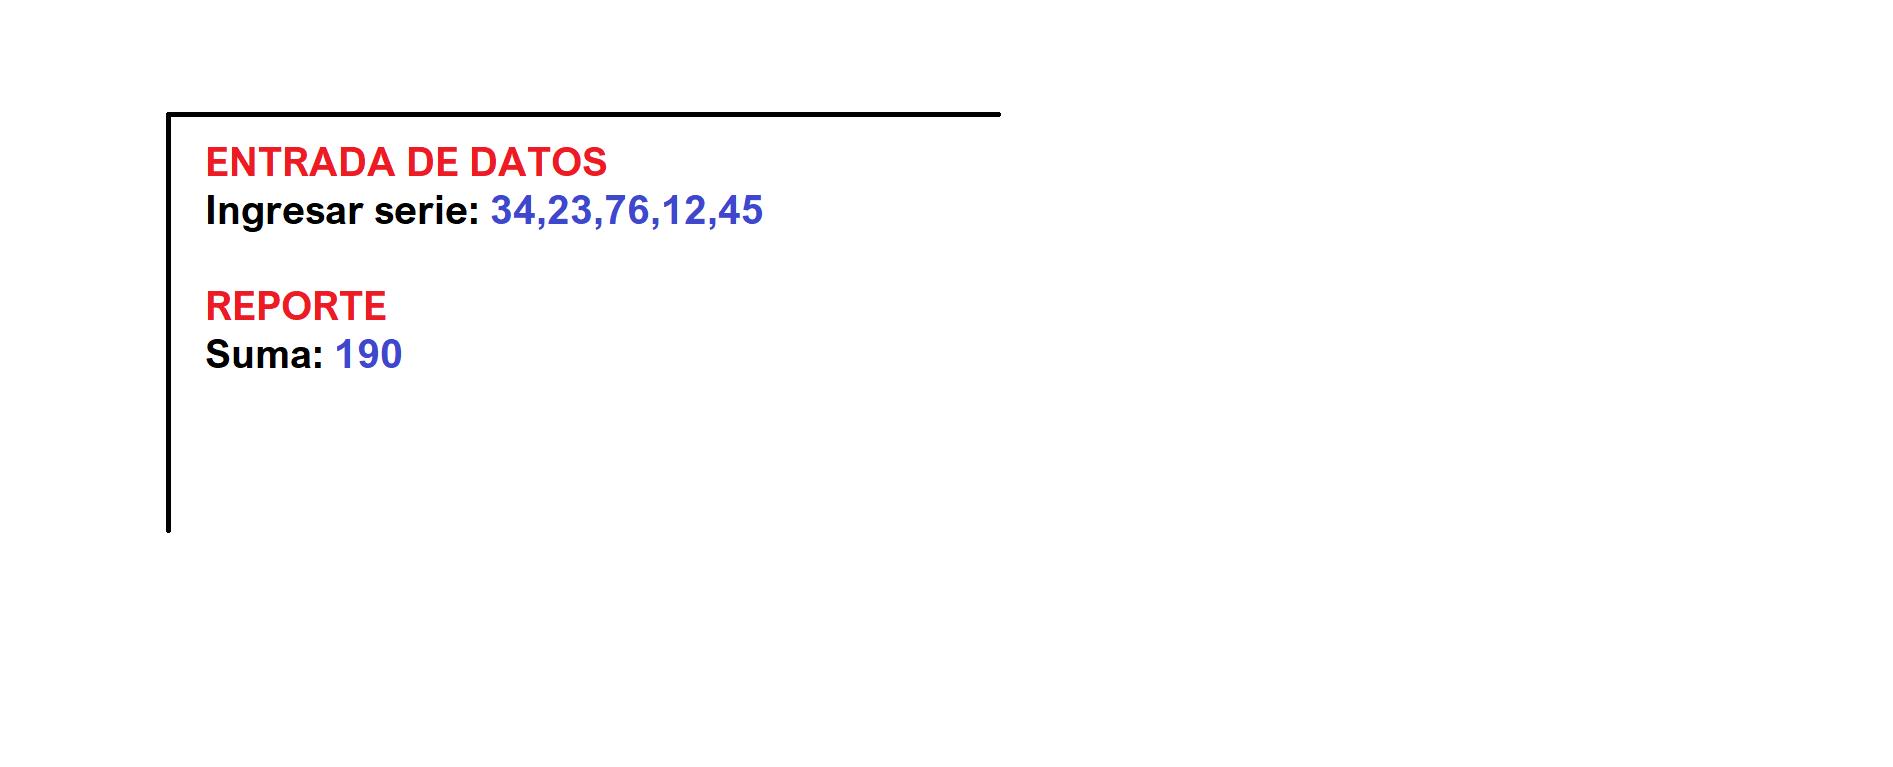
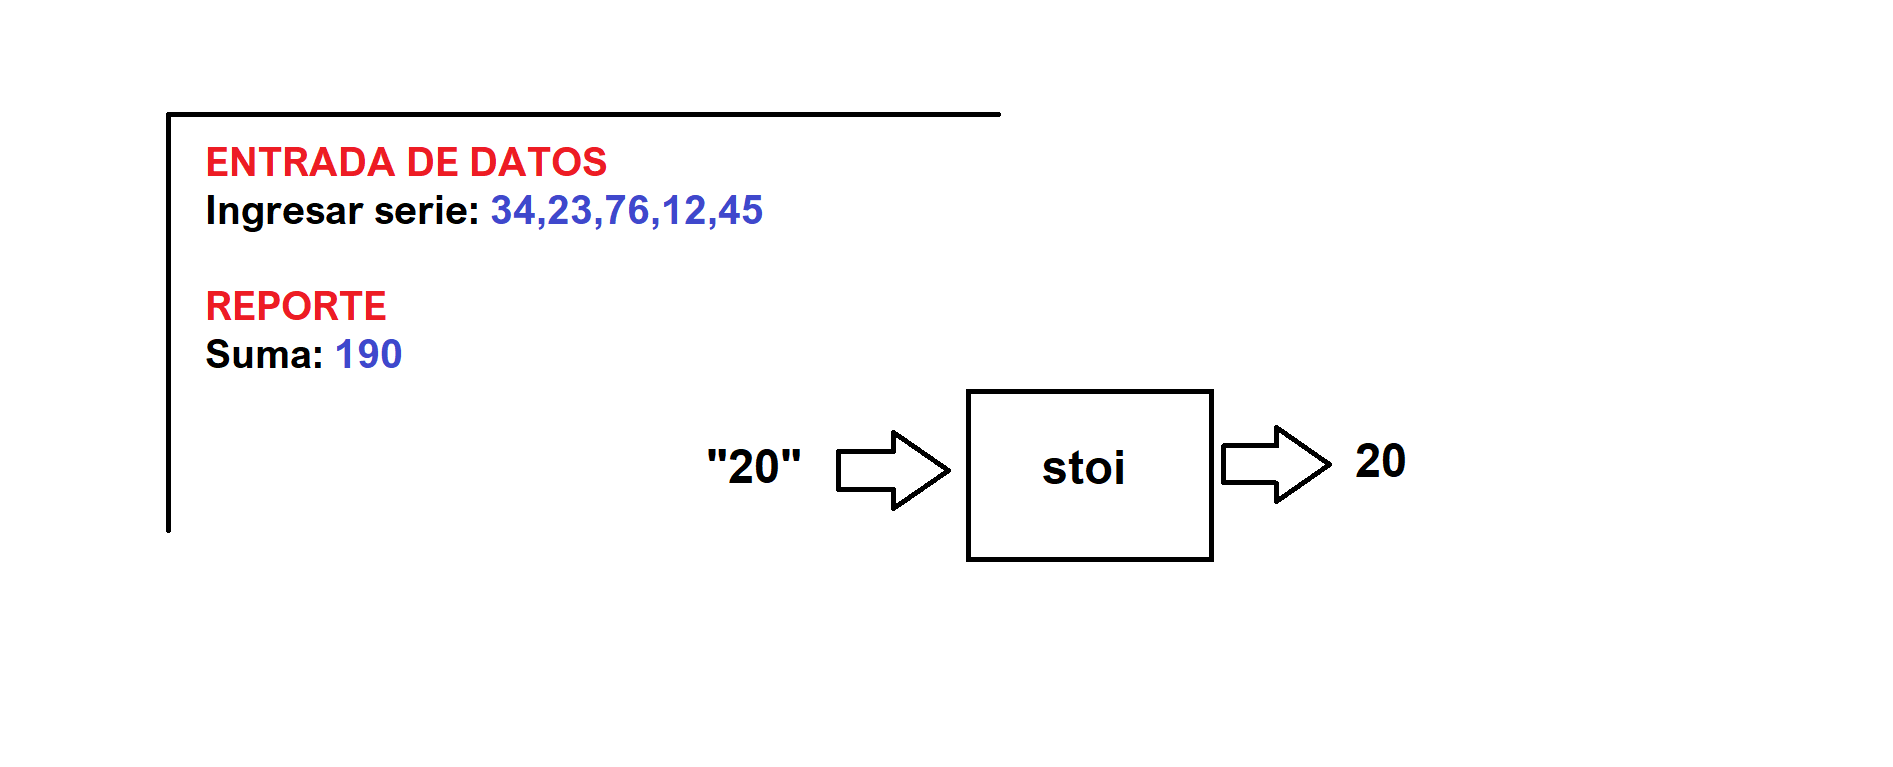
Semana 06

diff --git a/Semana06/Reto-JESHUA.cpp b/Semana06/Reto-JESHUA.cpp
@@ -1,0 +1,31 @@
+#include <iostream>
+#include <math.h>
+
+using namespace std;
+ 
+int main() {
+	
+	// Variables
+    int num, suma, i;
+    
+    // Entrada de datos
+    cout << "\t Ingrese numeros enteros\n";
+    cout << "==================================\n";
+    do{
+	    cout << "Numero : "; cin >> num;
+	    // Proceso
+	    suma += num;
+	    i++;
+    }while (num > 0 || num < 0);
+    
+    
+    // Salida
+    cout << "\t Respuesta\n";
+    cout << "==================================\n";
+    cout << "La suma es de : " << suma << endl;
+    cout << "==================================\n";
+    
+    
+    system("PAUSE");
+    return 0;
+}

diff --git a/Semana06/Reto-SOLUCION.cpp b/Semana06/Reto-SOLUCION.cpp
@@ -1,0 +1,26 @@
+#include <iostream>
+using namespace std;
+int main() {
+	// Variables
+	string datos, dato;
+	int suma, posicion;
+	// Entrada
+	cout << "Ingrese los numeros separados por coma (,).\n";
+	cout << "Datos: "; cin >> datos;
+	// Proceso
+	suma = 0; // Punto de partida
+	while(datos.size() > 0){
+		posicion = datos.find(",");
+		if(posicion > 0){
+			dato = datos.substr(0,posicion);
+			datos = datos.erase(0,posicion+1);
+		} else {
+			dato = datos;
+			datos = "";
+		}
+		suma += stoi(dato); // stoi es desde la version 11 de C++
+	} // Proceso
+	// Reporte
+	cout << "Suma: " << suma << endl;
+	return 0;	
+}

diff --git a/Semana06/FuncionesCadena.cpp b/Semana06/FuncionesCadena.cpp
@@ -1,0 +1,18 @@
+#include <iostream>
+using namespace std;
+int main(int argc, char ** argv) {
+	
+	string dato = "Eric Gustavo, Coronel Castillo";
+	
+	int longitud = dato.size();
+	int posicion = dato.find("Gustavo");
+	string nombre = dato.substr(5,7);
+	string dato2 = dato.erase(0, dato.find("Gustavo"));
+	
+	cout << "Longitud: " << longitud << endl;
+	cout << "Posicion: " << posicion << endl;
+	cout << "Extraer: " << nombre << endl;
+	cout << "Dato2: " << dato2 << endl;
+	
+	return 0;	
+}
